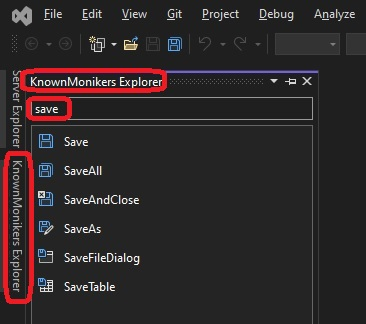
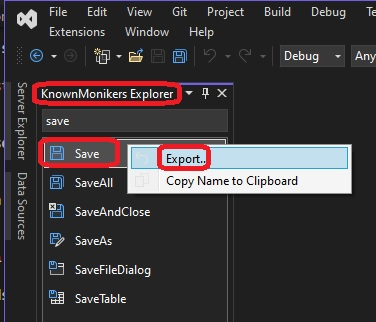
Added more info

diff --git a/src/apps/500705-AddingMonikerIcon/Commands/MainMenuCommand.cs b/src/apps/500705-AddingMonikerIcon/Commands/MainMenuCommand.cs
@@ -1,0 +1,105 @@
+using Microsoft.VisualStudio.Shell;
+using Microsoft.VisualStudio.Shell.Interop;
+using System;
+using System.ComponentModel.Design;
+using System.Globalization;
+using System.Threading;
+using System.Threading.Tasks;
+using Task = System.Threading.Tasks.Task;
+
+namespace AddingMonikerIcon.Commands
+{
+    /// <summary>
+    /// Command handler
+    /// </summary>
+    internal sealed class MainMenuCommand
+    {
+        /// <summary>
+        /// Command ID.
+        /// </summary>
+        public const int CommandId = 0x0100;
+
+        /// <summary>
+        /// Command menu group (command set GUID).
+        /// </summary>
+        public static readonly Guid CommandSet = new Guid("15b7b81d-ab9a-4217-8fed-adc110089572");
+
+        /// <summary>
+        /// VS Package that provides this command, not null.
+        /// </summary>
+        private readonly AsyncPackage package;
+
+        /// <summary>
+        /// Initializes a new instance of the <see cref="MainMenuCommand"/> class.
+        /// Adds our command handlers for menu (commands must exist in the command table file)
+        /// </summary>
+        /// <param name="package">Owner package, not null.</param>
+        /// <param name="commandService">Command service to add command to, not null.</param>
+        private MainMenuCommand(AsyncPackage package, OleMenuCommandService commandService)
+        {
+            this.package = package ?? throw new ArgumentNullException(nameof(package));
+            commandService = commandService ?? throw new ArgumentNullException(nameof(commandService));
+
+            var menuCommandID = new CommandID(CommandSet, CommandId);
+            var menuItem = new MenuCommand(this.Execute, menuCommandID);
+            commandService.AddCommand(menuItem);
+        }
+
+        /// <summary>
+        /// Gets the instance of the command.
+        /// </summary>
+        public static MainMenuCommand Instance
+        {
+            get;
+            private set;
+        }
+
+        /// <summary>
+        /// Gets the service provider from the owner package.
+        /// </summary>
+        private Microsoft.VisualStudio.Shell.IAsyncServiceProvider ServiceProvider
+        {
+            get
+            {
+                return this.package;
+            }
+        }
+
+        /// <summary>
+        /// Initializes the singleton instance of the command.
+        /// </summary>
+        /// <param name="package">Owner package, not null.</param>
+        public static async Task InitializeAsync(AsyncPackage package)
+        {
+            // Switch to the main thread - the call to AddCommand in MainMenuCommand's constructor requires
+            // the UI thread.
+            await ThreadHelper.JoinableTaskFactory.SwitchToMainThreadAsync(package.DisposalToken);
+
+            OleMenuCommandService commandService = await package.GetServiceAsync(typeof(IMenuCommandService)) as OleMenuCommandService;
+            Instance = new MainMenuCommand(package, commandService);
+        }
+
+        /// <summary>
+        /// This function is the callback used to execute the command when the menu item is clicked.
+        /// See the constructor to see how the menu item is associated with this function using
+        /// OleMenuCommandService service and MenuCommand class.
+        /// </summary>
+        /// <param name="sender">Event sender.</param>
+        /// <param name="e">Event args.</param>
+        private void Execute(object sender, EventArgs e)
+        {
+            ThreadHelper.ThrowIfNotOnUIThread();
+            string message = string.Format(CultureInfo.CurrentCulture, "Inside {0}.MenuItemCallback()", this.GetType().FullName);
+            string title = "MainMenuCommand";
+
+            // Show a message box to prove we were here
+            VsShellUtilities.ShowMessageBox(
+                this.package,
+                message,
+                title,
+                OLEMSGICON.OLEMSGICON_INFO,
+                OLEMSGBUTTON.OLEMSGBUTTON_OK,
+                OLEMSGDEFBUTTON.OLEMSGDEFBUTTON_FIRST);
+        }
+    }
+}

diff --git a/src/apps/500705-AddingMonikerIcon/Commands/AddingMonikerIconPackage.cs b/src/apps/500705-AddingMonikerIcon/Commands/AddingMonikerIconPackage.cs
@@ -1,0 +1,29 @@
+// ------------------------------------------------------------------------------
+// <auto-generated>
+//     This file was generated by VSIX Synchronizer
+// </auto-generated>
+// ------------------------------------------------------------------------------
+namespace AddingMonikerIcon.Commands
+{
+    using System;
+    
+    /// <summary>
+    /// Helper class that exposes all GUIDs used across VS Package.
+    /// </summary>
+    internal sealed partial class PackageGuids
+    {
+        public const string guidAddingMonikerIconPackageString = "61222390-1538-4033-8989-3058e4b59fbc";
+        public static Guid guidAddingMonikerIconPackage = new Guid(guidAddingMonikerIconPackageString);
+
+        public const string guidAddingMonikerIconPackageCmdSetString = "15b7b81d-ab9a-4217-8fed-adc110089572";
+        public static Guid guidAddingMonikerIconPackageCmdSet = new Guid(guidAddingMonikerIconPackageCmdSetString);
+    }
+    /// <summary>
+    /// Helper class that encapsulates all CommandIDs uses across VS Package.
+    /// </summary>
+    internal sealed partial class PackageIds
+    {
+        public const int MyMenuGroup = 0x1020;
+        public const int MainMenuCommandId = 0x0100;
+    }
+}

diff --git a/src/apps/500705-AddingMonikerIcon/AddingMonikerIconPackage.cs b/src/apps/500705-AddingMonikerIcon/AddingMonikerIconPackage.cs
@@ -25,6 +25,7 @@ namespace AddingMonikerIcon
     /// </remarks>
     [PackageRegistration(UseManagedResourcesOnly = true, AllowsBackgroundLoading = true)]
     [Guid(AddingMonikerIconPackage.PackageGuidString)]
+    [ProvideMenuResource("Menus.ctmenu", 1)]
     public sealed class AddingMonikerIconPackage : AsyncPackage
     {
         /// <summary>
@@ -46,6 +47,7 @@ namespace AddingMonikerIcon
             // When initialized asynchronously, the current thread may be a background thread at this point.
             // Do any initialization that requires the UI thread after switching to the UI thread.
             await this.JoinableTaskFactory.SwitchToMainThreadAsync(cancellationToken);
+            await AddingMonikerIcon.Commands.MainMenuCommand.InitializeAsync(this);
         }
 
         #endregion

diff --git a/src/tasks/500705-AddingMonikerIcon/ReadMe.md b/src/tasks/500705-AddingMonikerIcon/ReadMe.md
@@ -12,10 +12,82 @@
 
 ![Seach for existing icons in Known Moniker Explorer](./images/51KnownMonikerExplorer50.jpg)
 
-5. Now you can select one, and you can even export, it as png, jpg or gif to any location on the disc.
+5.  Lets create a new VSIX package.
 
-6. Now to use an existing icon from the known moniker in the VSIX package, do the following. 
+6. Add a Commands folder. Then add a command as follows.
 
-7. Lets create a new VSIX package.
+![Adding new command](./images/54NewCommand50.jpg) 
 
-8. Add a command.  
+7. Now open VSCT file, the Visual Studio Command Table file. We dont want to use the default png file. So delete the following. I have commented them in the code.
+
+```xml
+<GuidSymbol name="guidImages" value="{532d1e76-0759-4f17-8249-a459c36252f1}" >
+    <IDSymbol name="bmpPic1" value="1" />
+    <IDSymbol name="bmpPic2" value="2" />
+    <IDSymbol name="bmpPicSearch" value="3" />
+    <IDSymbol name="bmpPicX" value="4" />
+    <IDSymbol name="bmpPicArrows" value="5" />
+    <IDSymbol name="bmpPicStrikethrough" value="6" />
+</GuidSymbol>
+```
+
+and 
+
+```xml
+<Bitmaps>
+    <Bitmap guid="guidImages" href="Resources\MainMenuCommand.png" usedList="bmpPic1, bmpPic2, bmpPicSearch, bmpPicX, bmpPicArrows, bmpPicStrikethrough"/>
+</Bitmaps>
+```
+
+and finally 
+
+```xml
+<Icon guid="guidImages" id="bmpPic1" />
+```
+
+8. Now you can delete the MainMenuCommand.png in the resources folder as well, becuase we are not going to use this any more. I will not be deleting that for this example, I will be keepting it for now. Its no longer used in the app.
+
+9. Next, include the following in the code. By this we are telling the package that we are using the visual studio known moniker icons.
+
+```xml
+<Include href="KnownImageIds.vsct"/>
+```
+
+10. Now add the following icon tag. So basically we are replacing the above guidImage one with the following.
+
+```xml
+<Icon guid="ImageCatalogGuid" id="Save"/>
+<CommandFlag>IconIsMoniker</CommandFlag>
+```
+
+11. Now its time to add an icon to the extension itself.
+
+12. From the known monikers you can select one, and you can even export, it as png, jpg or gif to any location on the disc.
+
+![Export Save PNG](./images/52ExportSaveImage51.jpg)
+
+13. Add it to resources.
+
+![Save it to resources folder](./images/53SaveImageToResourcesFolder53.jpg)
+
+14. Then include that file in to the proiect.
+
+15. Next ensure it to be included in VSIX 
+
+![Save it to resources folder](./images/53SaveImageToResourcesFolder54IncludeInVSix.jpg)
+
+16. In the manifest, put this as icon.
+
+![Save it to resources folder](./images/53SaveImageToResourcesFolder55IconInManifest.jpg)
+
+17. Now Reset the exp instnace, buid and run.
+
+![Exp Instance](./images/55InstalledExtensions50.jpg)
+
+18.  Also look at the command in the tools menu.
+
+![Exp Instance](./images/56InstalledExtensions50.jpg)
+
+19. 
+
+
